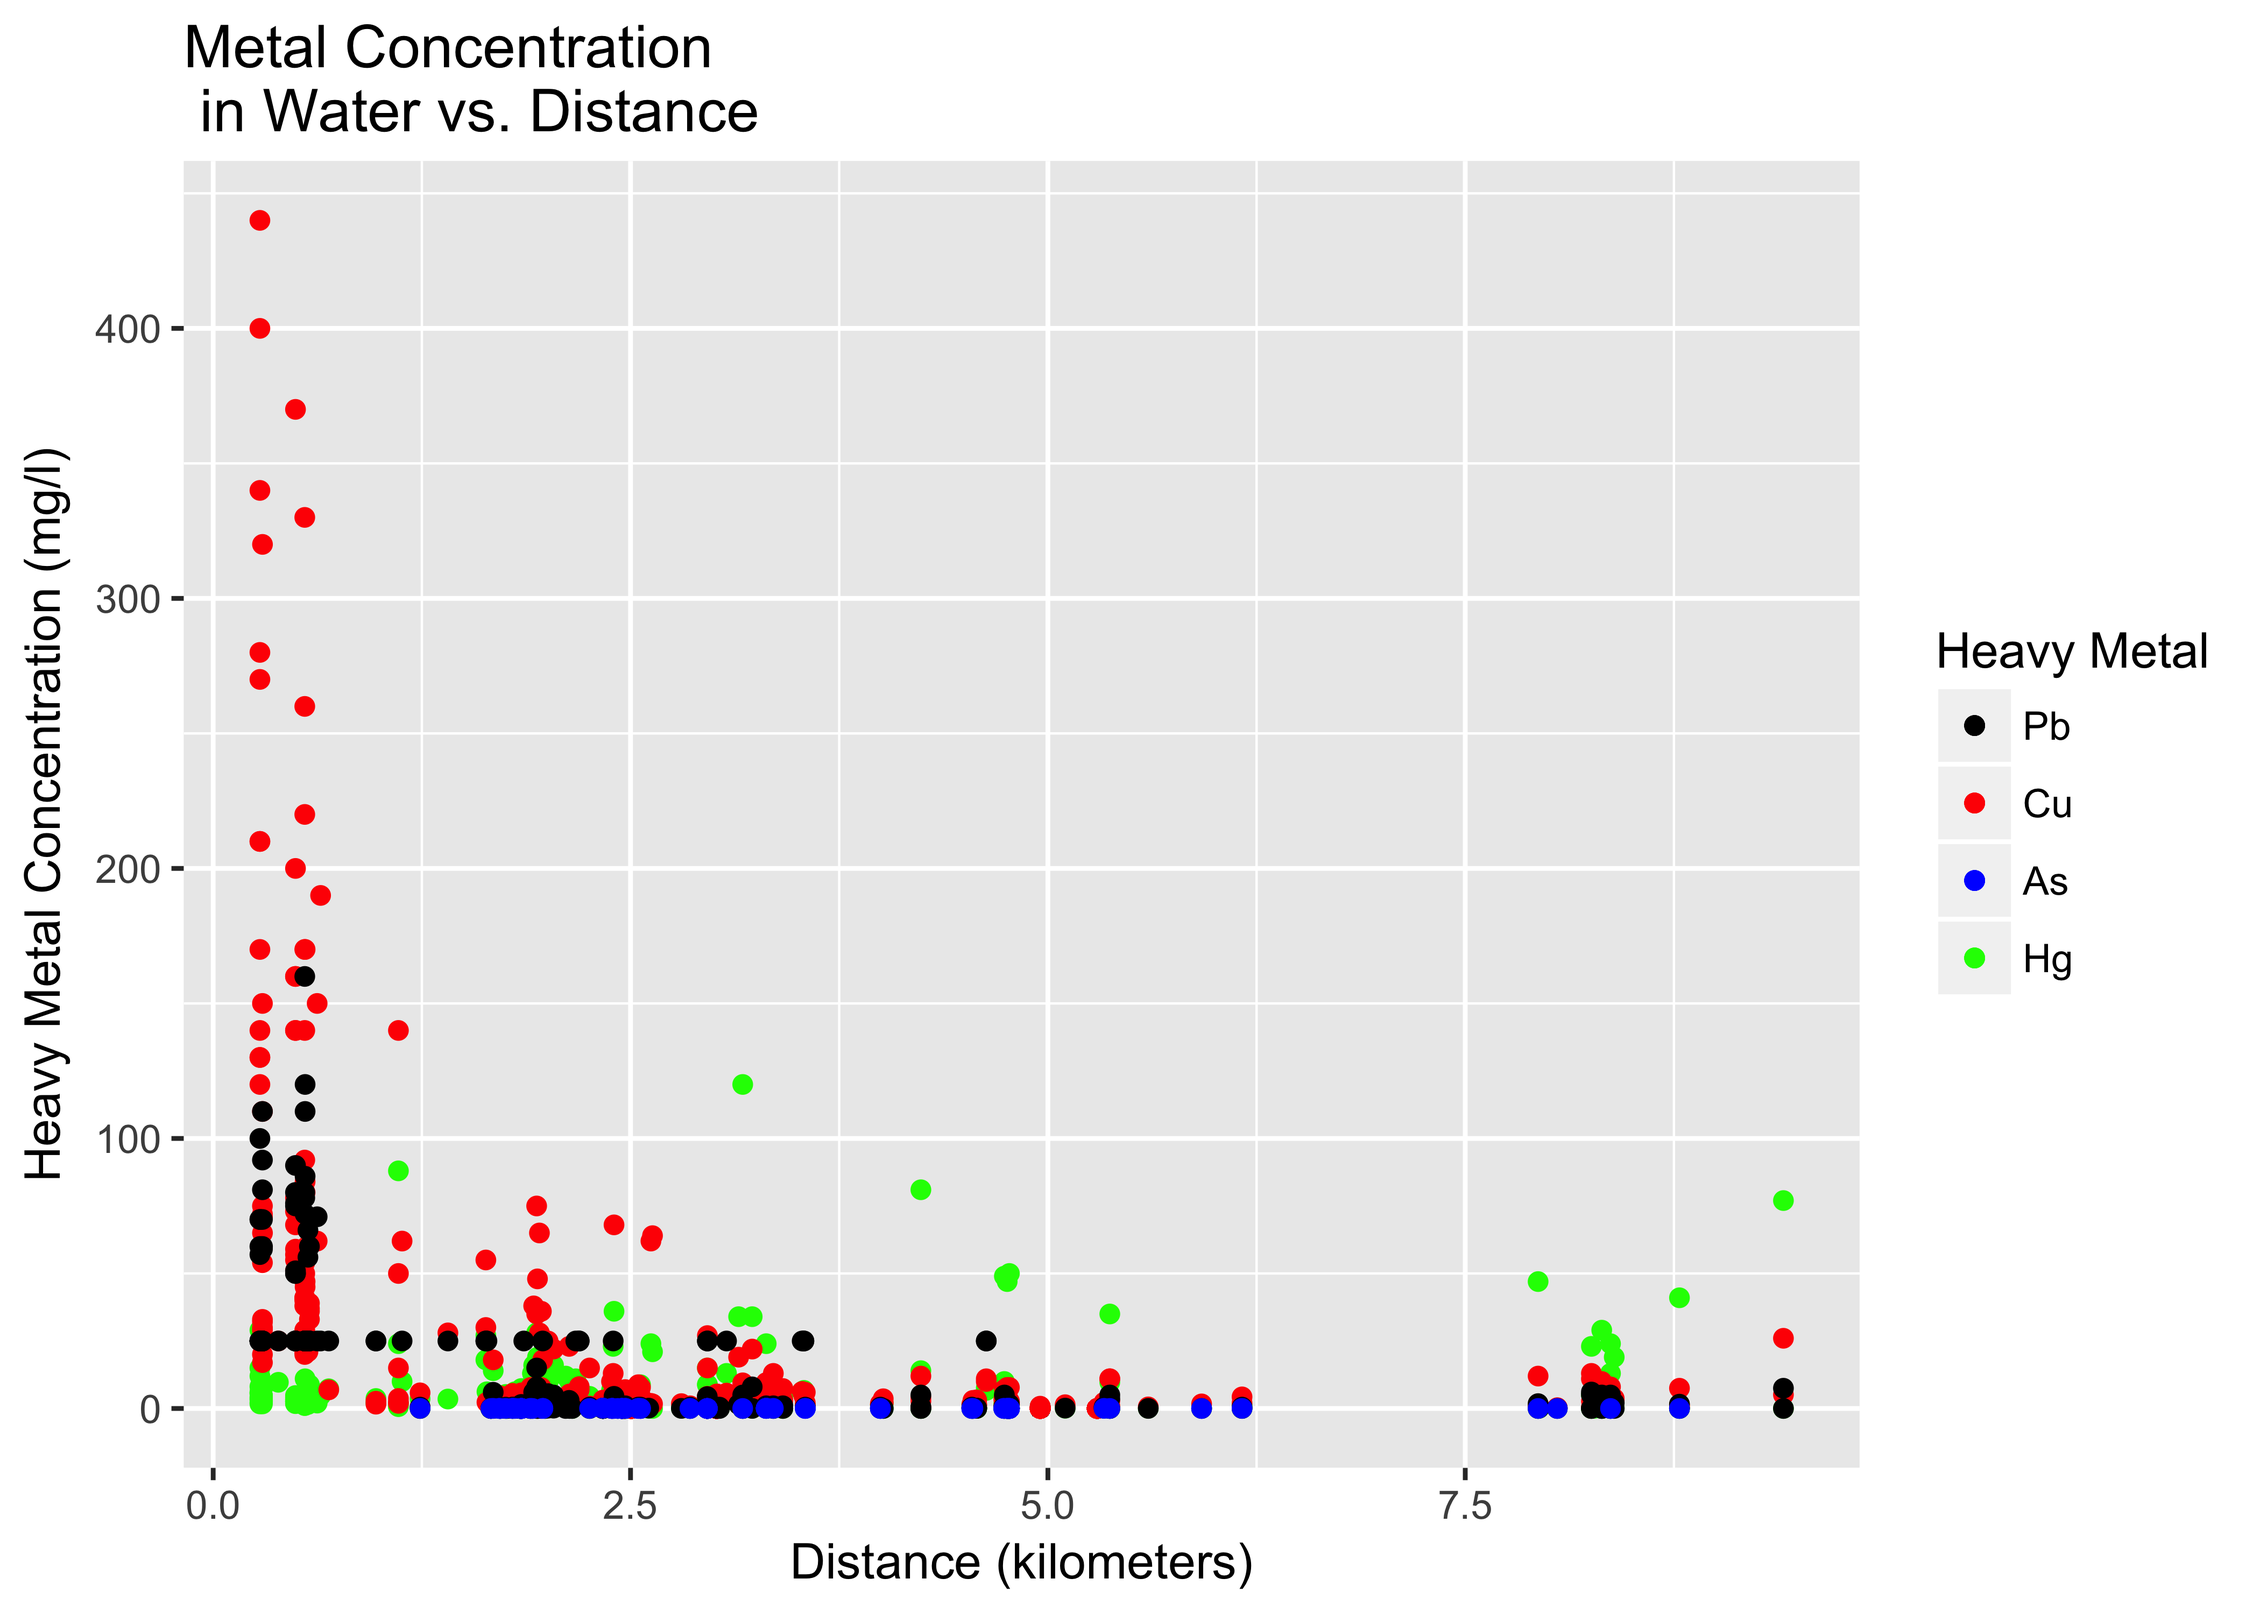
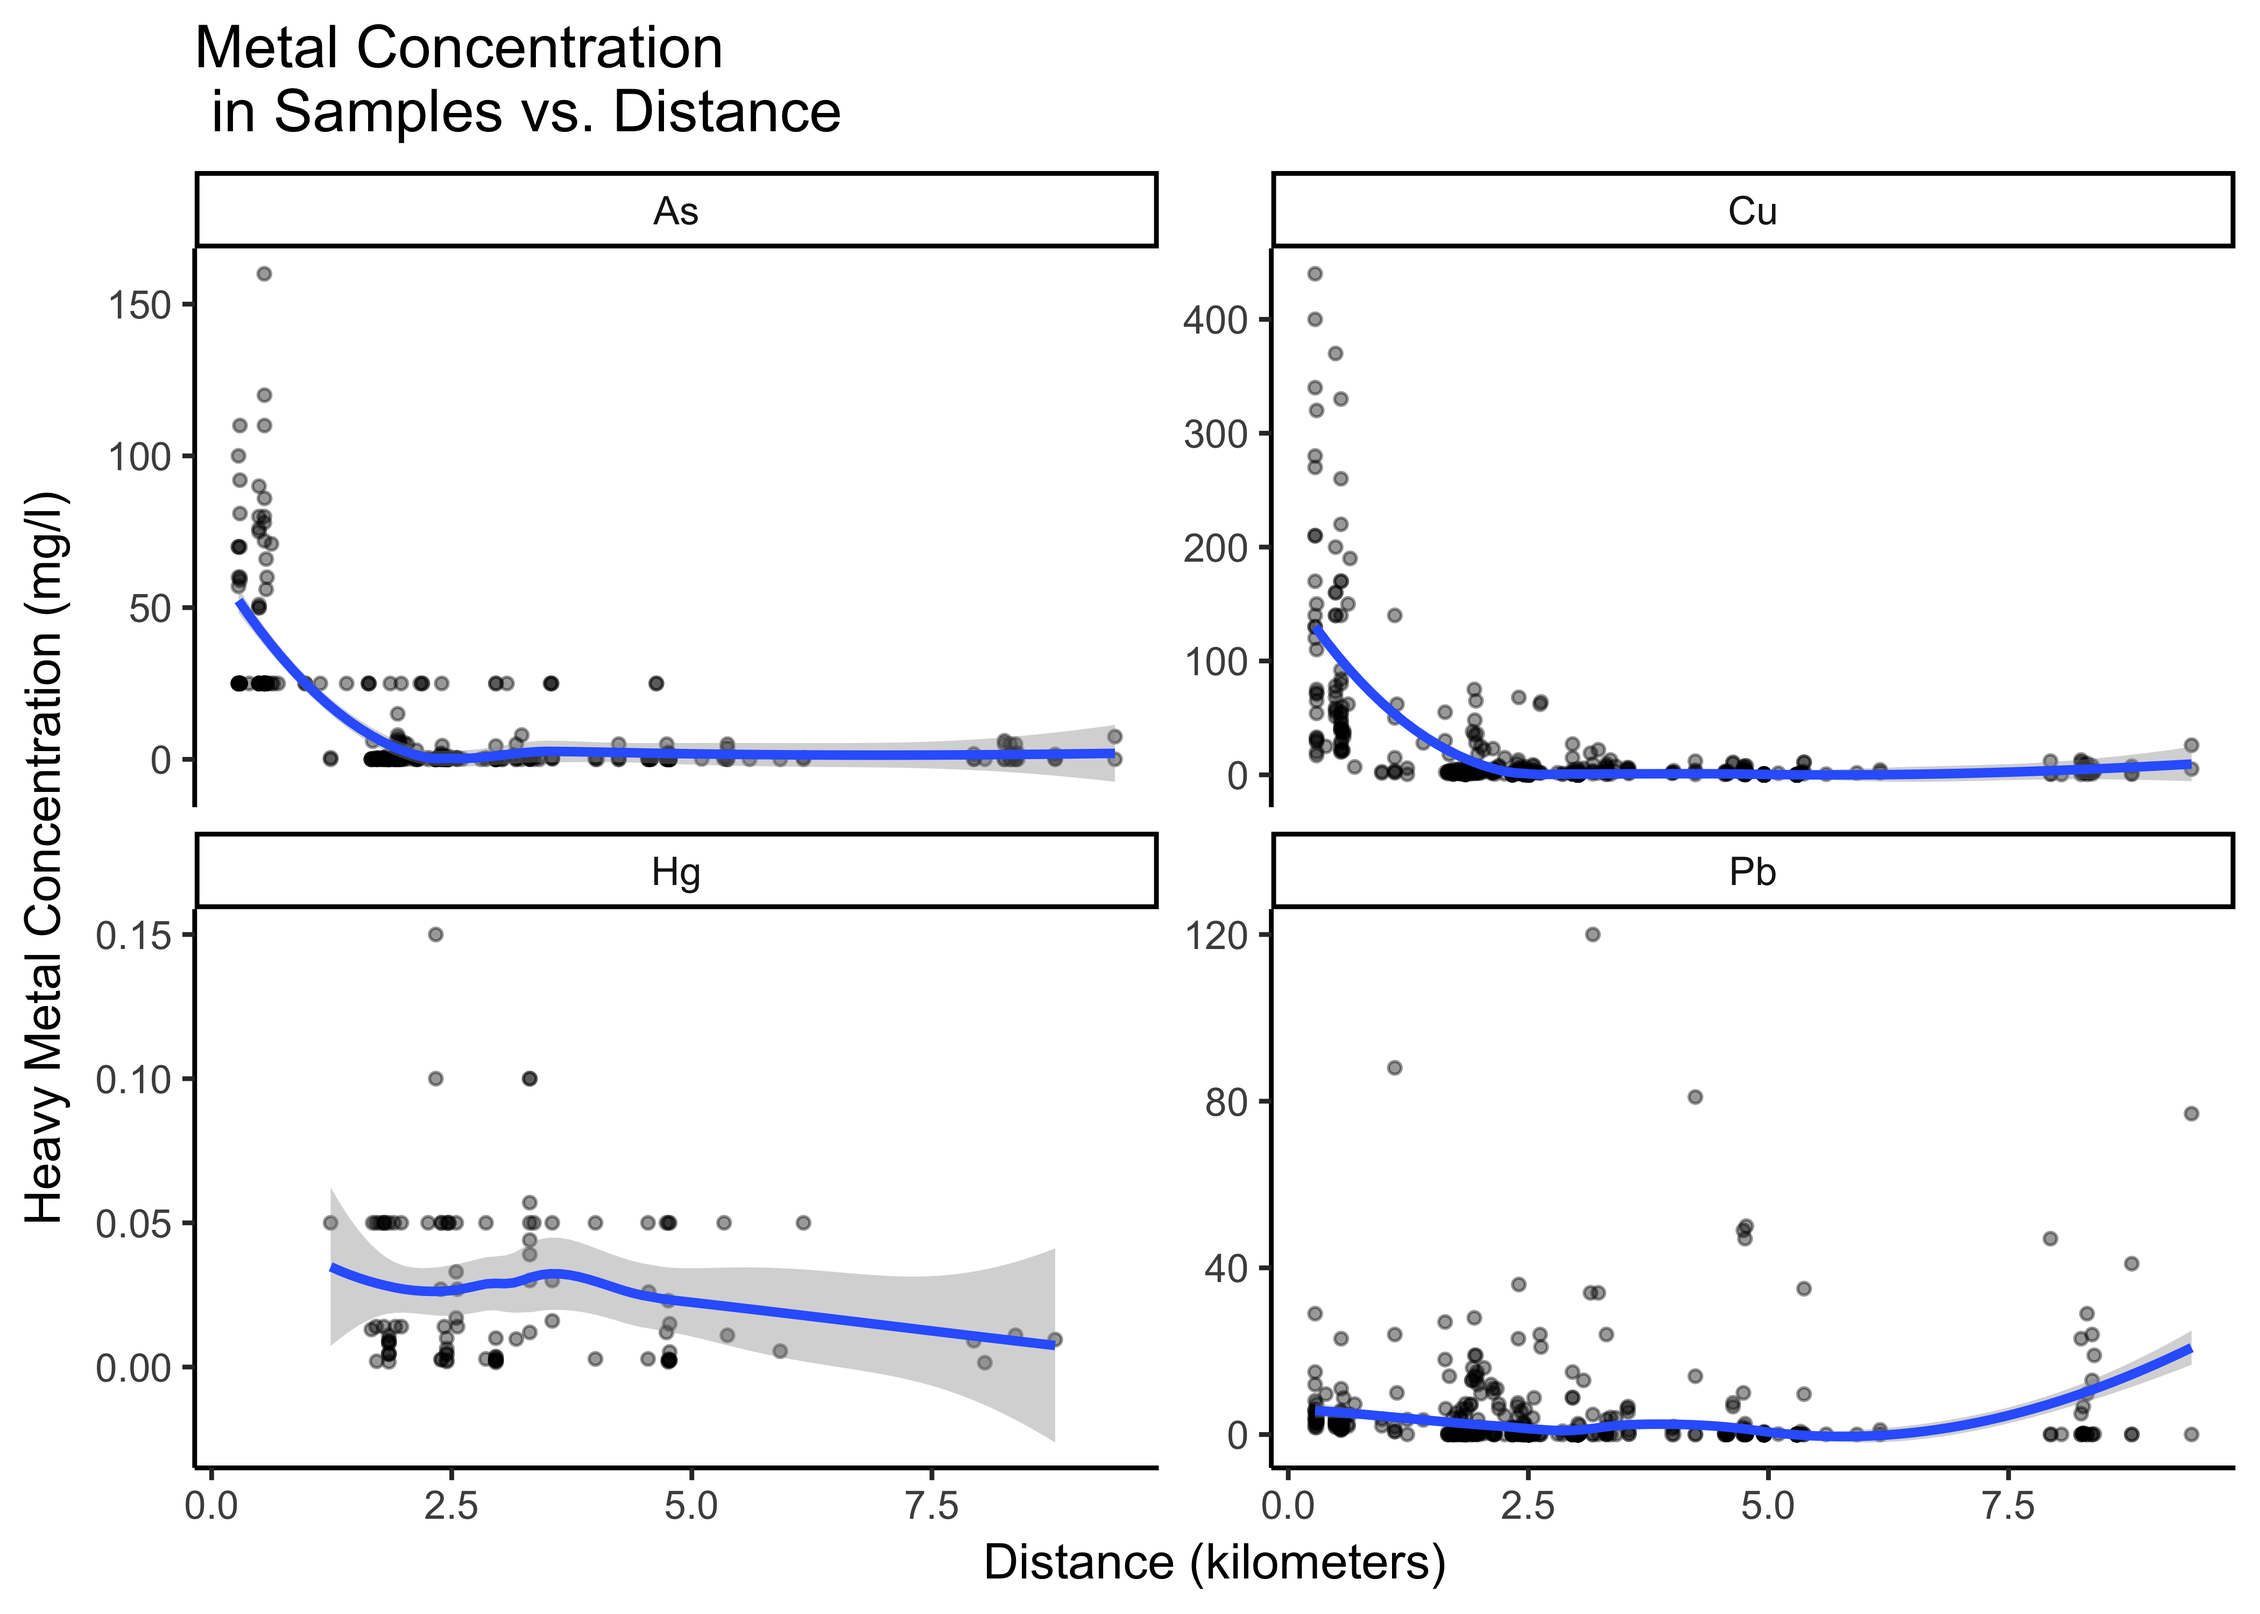
Work on metal-specific graph

diff --git a/README.md b/README.md
@@ -58,7 +58,7 @@ As one can see, there is a slight downward trend in the amount of radionuclides 
 
 <img src="README-Heavy_Metal-1.png" style="display: block; margin: auto;" />
 
-The figure above shows metal concentrations in water samples as a function of distance from the mine. Both copper and lead show a potentially significant correlation with distance; mercury may as well. This figure also shows one side effect of our decision to treat results below the limits of detection as results equal to the limit of detection; a common detection threshold for lead was ~25 mg/l.
+The figure above shows metal concentrations in samples as a function of distance from the mine. Both copper and lead show a potentially significant correlation with distance; mercury may as well. This figure also shows one side effect of our decision to treat results below the limits of detection as results equal to the limit of detection; a common detection threshold for lead was ~25 mg/l.
 
 Further Research
 ----------------
